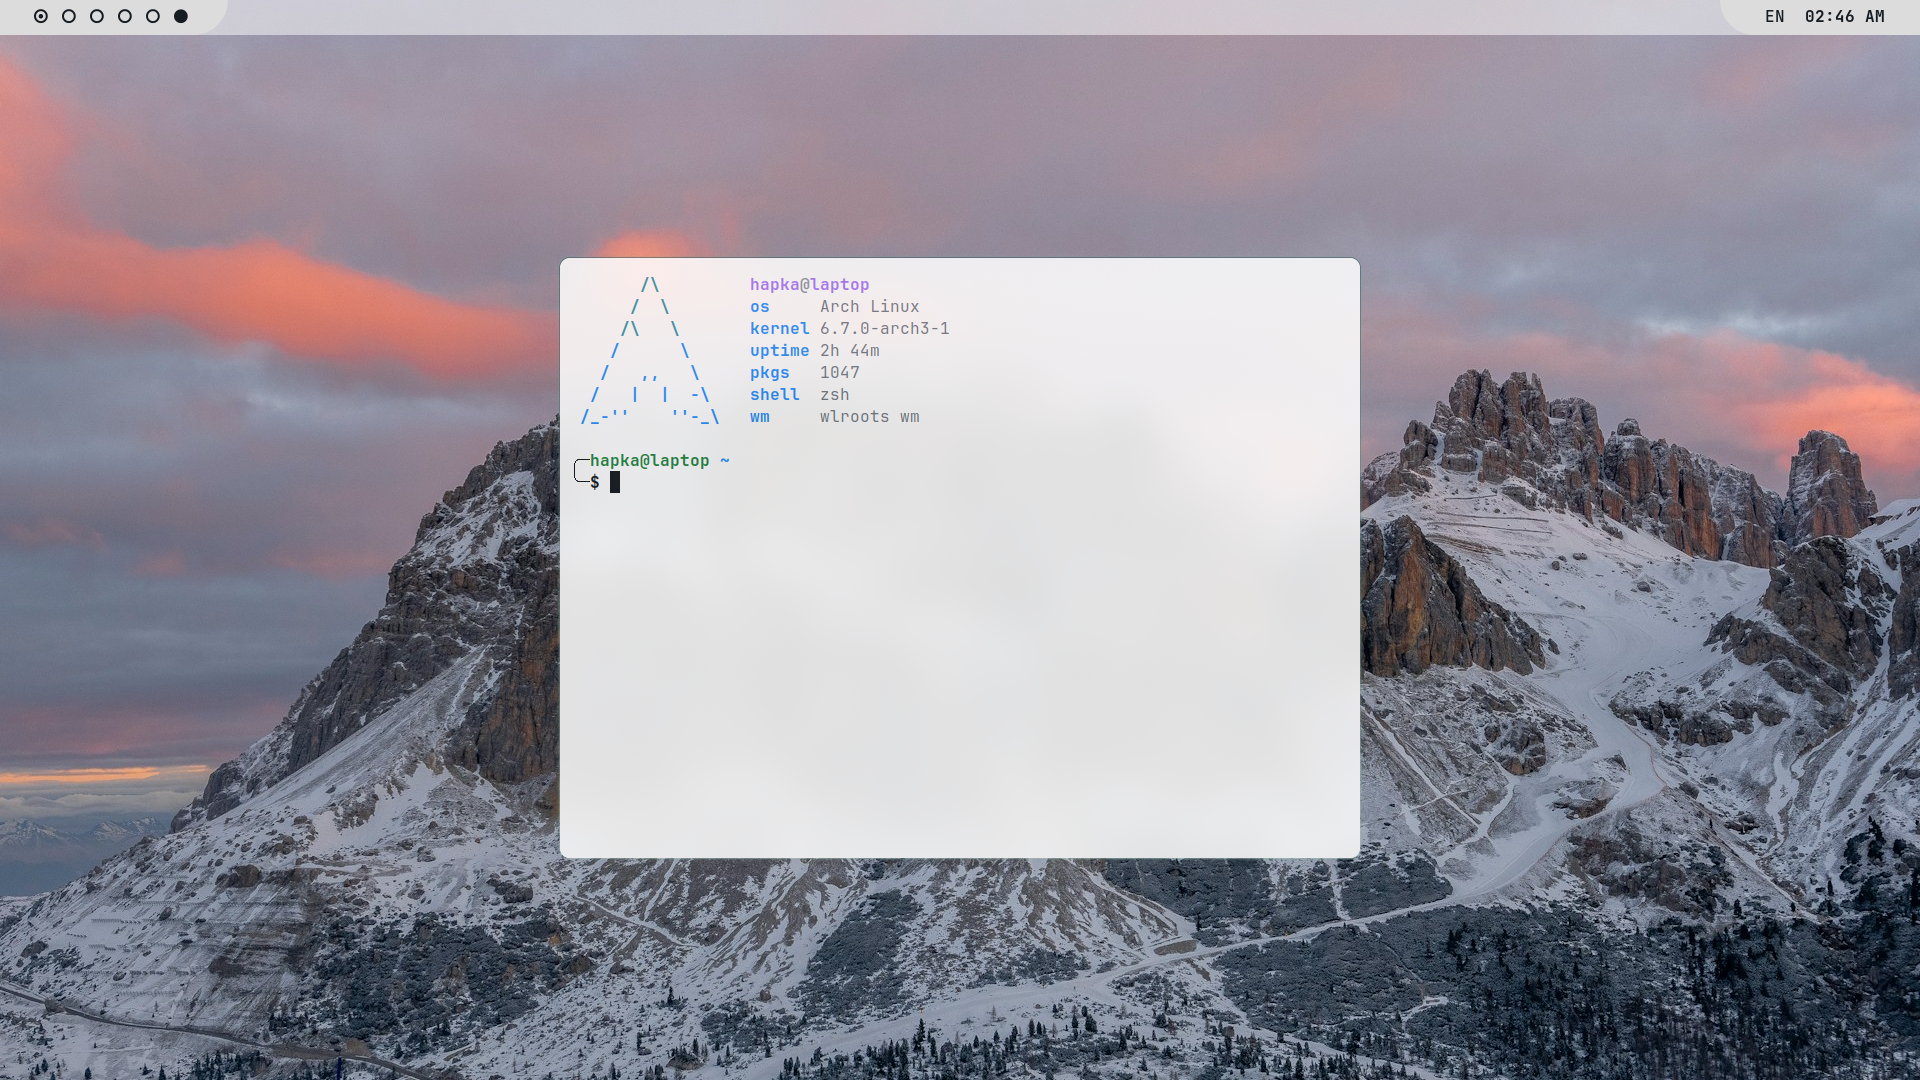
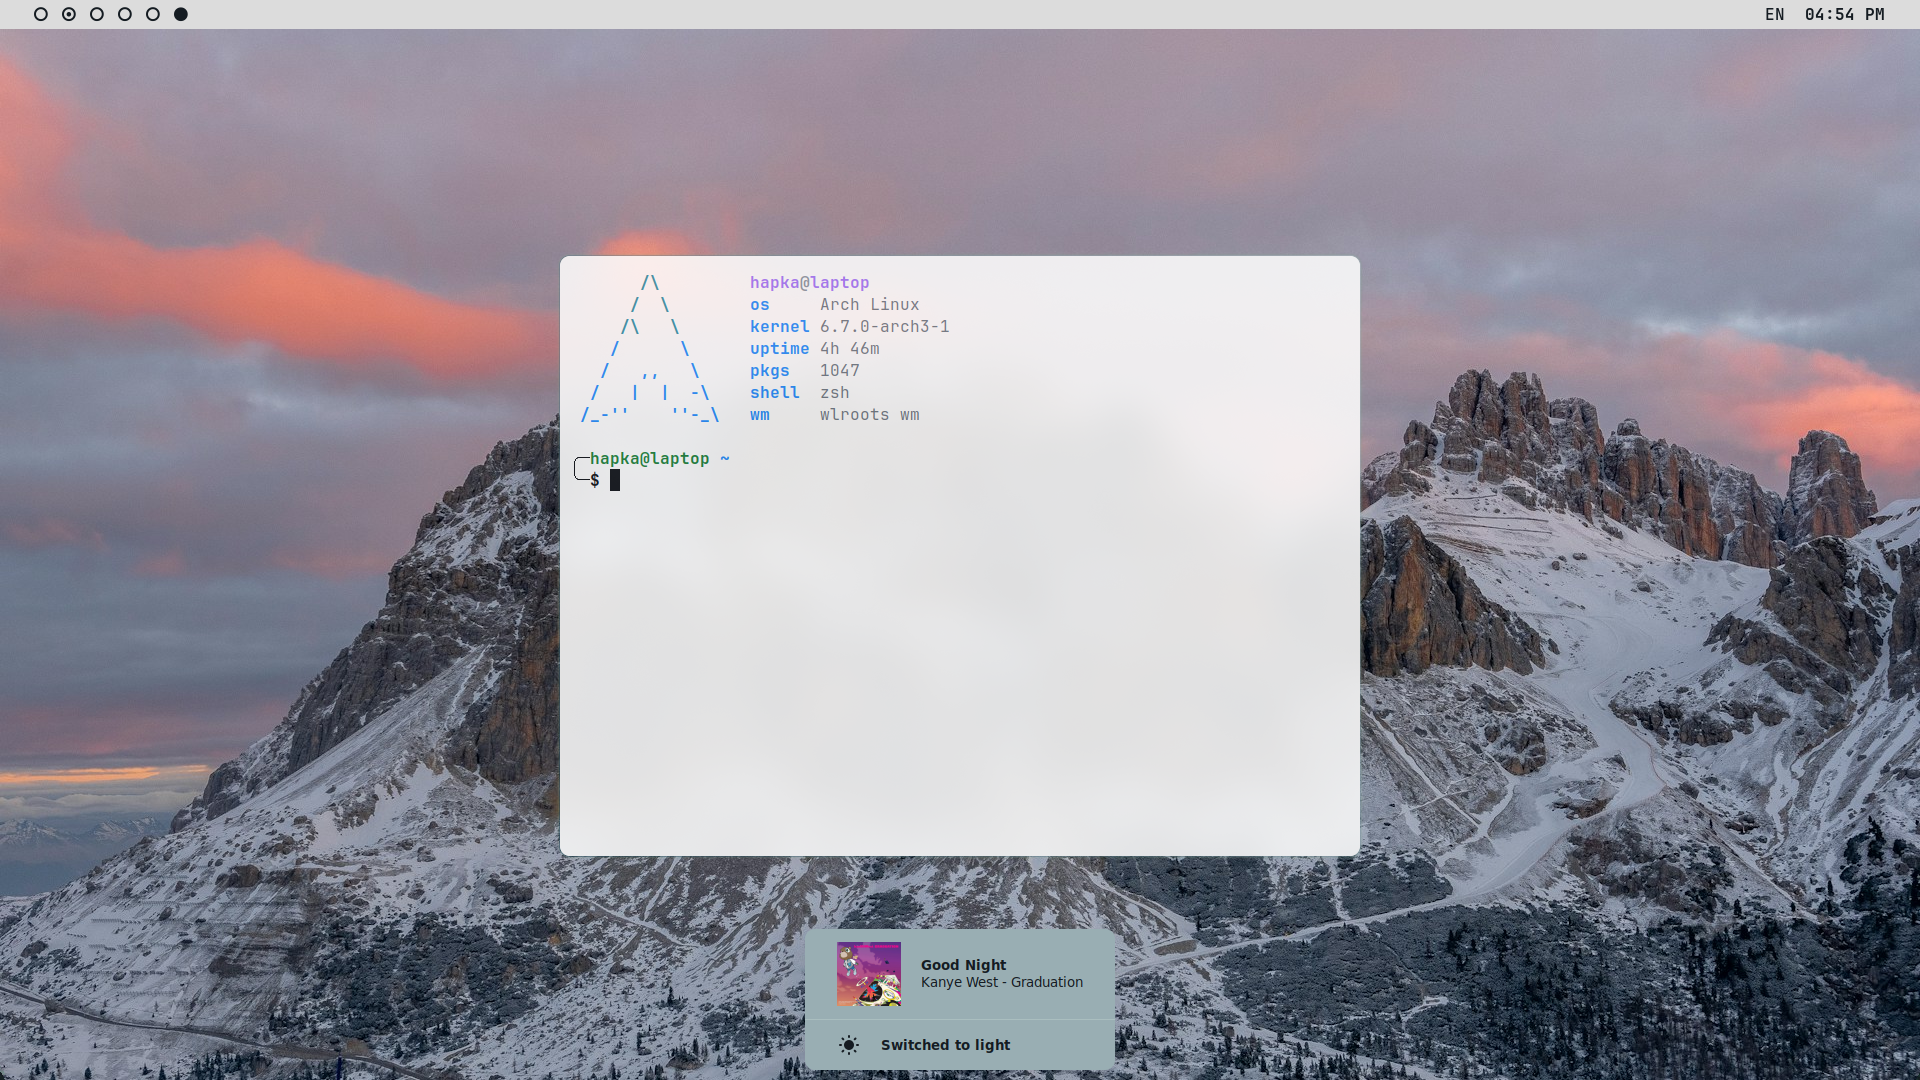
add brightness control;update theme toggler, notifications, waybar

diff --git a/.config/waybar/style.css b/.config/waybar/style.css
@@ -8,48 +8,49 @@
   font-size: 16px;
   /* background-color: #0B161C; */
   background: transparent;
-  border-radius: 10px;
   /* Reduced opacity background */
 }
 
 .modules-center {
-  border-radius: 0px 0px 10px 10px;
-  background: transparent;
-  opacity: 0;
+  /* border-radius: 0px 0px 10px 10px; */
+  /* opacity: 0; */
+  border-radius: 0;
+  opacity: 1;
+  min-width: 0;
 }
 
 .modules-right {
-  border-radius: 0px 0px 0px 80px;
+  /* border-radius: 0px 0px 0px 80px; */
 }
 
 
 .modules-left {
-  border-radius: 0px 0px 80px 0px;
+  /* border-radius: 0px 0px 80px 0px; */
   padding-right: 15px;
 }
 
-/* .modules-center, */
+.modules-center,
 .modules-right,
 .modules-left {
-  background: @background;
+  background: @background-light;
   min-width: 200px;
-  padding: 3px 0px 6px 0px;
+  padding: 1px 0px 2px 0px;
+  color: @primary-light;
 }
 
 window#waybar {
-  background-color: rgba(0, 0, 0, 0);
-  background: @background-alt;
+  background: @background-light;
 }
 
 #custom-window-name {
-  color: @primary;
-  background: transparent;
-  min-width: 400px;
+  color: @primary-light;
+  margin: 0px 50px;
+  min-width: 0;
 }
 
 #language {
   padding-left: 25px;
-  color: @primary;
+  color: @primary-light;
   background: transparent;
   font-weight: 600;
   font-size: 16px;
@@ -61,9 +62,8 @@ window#waybar {
   padding-right: 35px;
 }
 
-
 #workspaces button label {
-  color: @primary;
+  color: @primary-light;
   margin: 0px 8px;
   background-color: #1a1c2b;
   background: transparent;
@@ -80,7 +80,7 @@ window#waybar {
   border: none;
   outline: none;
   box-shadow: none;
-  color: @primary;
+  color: @primary-light;
   animation: none;
   transition: all 1000s ease;
   font-size: 16px;
@@ -95,7 +95,7 @@ window#waybar {
   border: none;
   outline: none;
   box-shadow: none;
-  color: @primary;
+  color: @primary-light;
   margin: 0px 8px;
   animation: none;
   transition: all 1000s ease;
@@ -106,7 +106,7 @@ window#waybar {
 }
 
 #battery {
-  color: @primary;
+  color: @primary-light;
   margin: 0px 30px 0px 0px;
 }
 
@@ -115,19 +115,19 @@ window#waybar {
   background: transparent;
   margin-top: 5px;
   margin-bottom: 5px;
-  color: @primary;
+  color: @primary-light;
   background: transparent;
   margin-right: 10px;
 }
 
 #network {
-  color: @primary;
+  color: @primary-light;
   margin-right: 10px;
   background-color: transparent;
 }
 
 #custom-dot {
-  color: @primary;
+  color: @primary-light;
   padding-right: 10px;
   background-color: transparent;
 }
@@ -140,7 +140,7 @@ window#waybar {
 
 #clock {
   /* color: #5E8C8F; */
-  color: @primary;
+  color: @primary-light;
   padding-left: 20px;
   padding-right: 35px;
   font-weight: 600;

diff --git a/.config/waybar/colors.css b/.config/waybar/colors.css
@@ -1,6 +1,7 @@
-@define-color primary #99AEB3;
-@define-color background #151C22;
-@define-color background-alt rgba(21, 28, 34, 0.8);
+@define-color primary-dark #99AEB3;
+@define-color background-dark #151C22;
+/* @define-color background-dark-alt rgba(21, 28, 34, 0.8); */
+@define-color background-dark-alt rgba(21, 28, 34, 1);
 @define-color primary-light #151C22;
 @define-color background-light #DCDCDC;
-@define-color background-light-alt rgba(255, 255, 255, 0.5);
+@define-color background-light-alt rgba(220, 220, 220, 0.9);
